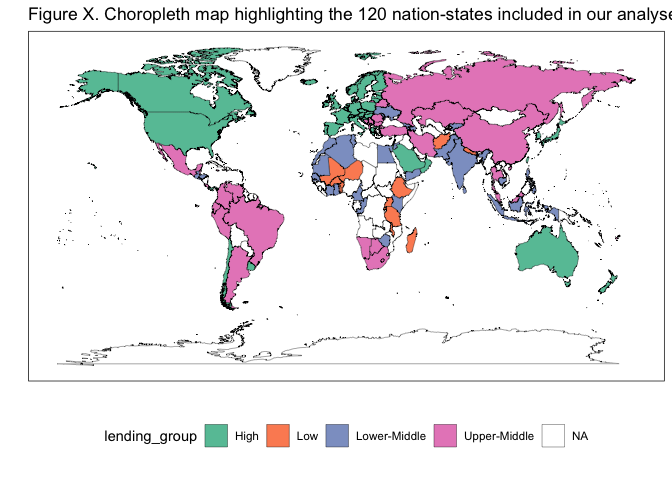
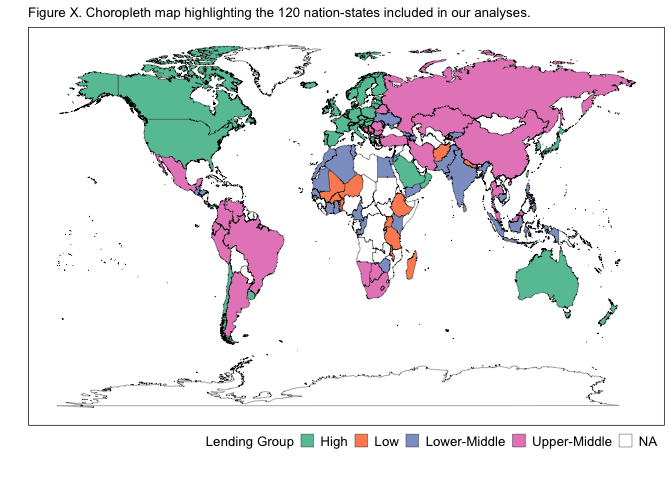
made preliminary visualizations for inclusion, lending- and development-group membership, and lending- and development-group distributions

diff --git a/scripts/analysis-script.md b/scripts/analysis-script.md
@@ -27,6 +27,7 @@ library(viridis)
 library(RColorBrewer)
 library(colorspace)
 library(ggpubr)
+library(ggridges)
 ```
 
 ## Data Loading
@@ -36,7 +37,7 @@ impact_data <- read.csv("/Users/kenjinchang/github/university-impact-model/data/
 spatial_impact_data <- read.csv("/Users/kenjinchang/github/university-impact-model/data/model-output/university-impact-model-shapefile.csv")
 ```
 
-## Nation-State Inclusion Figure
+## Nation-State Inclusion
 
 ``` r
 spatial_impact_data %>%
@@ -48,8 +49,8 @@ spatial_impact_data %>%
   xlab("") + 
   ylab("") +
   labs(caption="") +
-  ggtitle("Figure X. Choropleth map highlighting the 120 nation-states included in our analyses.") +
-  theme(legend.position="none",panel.grid=element_blank(),panel.background=element_rect(fill="white"),panel.border=element_rect(fill=NA),axis.text=element_blank(),axis.ticks=element_blank())
+  ggtitle("Figure X. Choropleth map indicating the 120 nation-states included in our analyses.") +
+  theme(legend.position="bottom",legend.justification="right",legend.box.spacing=unit(-15,"pt"),legend.key.size=unit(10,"pt"),panel.grid=element_blank(),panel.background=element_rect(fill="white"),panel.border=element_rect(fill=NA),axis.text=element_blank(),axis.ticks=element_blank(),legend.title=element_text(size=10),legend.text=element_text(size=10),plot.title=element_text(size=10))
 ```
 
     ## Warning: Using `size` aesthetic for lines was deprecated in ggplot2 3.4.0.
@@ -57,61 +58,225 @@ spatial_impact_data %>%
 
 ![](analysis-script_files/figure-gfm/unnamed-chunk-3-1.png)<!-- -->
 
+## Lending- and Development-Group Membership
+
 ``` r
-spatial_impact_data %>%
-  ggplot(aes(x=long,y=lat,fill=lending_group,group=group)) + 
+impact_data %>%
+  count(lending_group)
+```
+
+    ##   lending_group  n
+    ## 1          High 46
+    ## 2           Low 13
+    ## 3  Lower-Middle 30
+    ## 4  Upper-Middle 31
+
+``` r
+lending_group_membership <- spatial_impact_data %>%
+  ggplot(aes(x=long,y=lat,group=group,fill=factor(lending_group,levels=c("Low","Lower-Middle","Upper-Middle","High","NA")))) + 
   geom_polygon(color="black",size=0.125) +
-  scale_fill_brewer(palette="Set2",na.value="white") +
+  scale_fill_brewer(palette="Set2",na.value="white",name="Lending Group",labels=c("Low (n=13)","Lower Middle (n=30)","Upper Middle (n=31)","High (n=46)","NA")) +
   xlab("") + 
   ylab("") +
   labs(caption="") +
-  ggtitle("Figure X. Choropleth map highlighting the 120 nation-states included in our analyses.") +
-  theme(legend.position="bottom",panel.grid=element_blank(),panel.background=element_rect(fill="white"),panel.border=element_rect(fill=NA),axis.text=element_blank(),axis.ticks=element_blank())
+  theme(legend.position="bottom",legend.justification="right",legend.box.spacing=unit(-15,"pt"),legend.key.size=unit(10,"pt"),panel.grid=element_blank(),panel.background=element_rect(fill="white"),panel.border=element_rect(fill=NA),axis.text=element_blank(),axis.ticks=element_blank(),legend.title=element_text(size=10),legend.text=element_text(size=10),plot.title=element_text(size=10))
 ```
 
-![](analysis-script_files/figure-gfm/unnamed-chunk-4-1.png)<!-- -->
+``` r
+impact_data %>%
+  count(development_group)
+```
+
+    ##   development_group  n
+    ## 1              High 30
+    ## 2               Low 16
+    ## 3            Medium 16
+    ## 4         Very High 58
+
+``` r
+development_group_membership <- spatial_impact_data %>%
+  ggplot(aes(x=long,y=lat,group=group,fill=factor(development_group,levels=c("Low","Medium","High","Very High","NA")))) + 
+  geom_polygon(color="black",size=0.125) +
+  scale_fill_brewer(palette="Set3",na.value="white",name="Development Group",labels=c("Low (n=16)","Medium (n=16)","High (n=30)","Very High (n=58)","NA")) +
+  xlab("") + 
+  ylab("") +
+  labs(caption="") +
+  theme(legend.position="bottom",legend.justification="right",legend.box.spacing=unit(-15,"pt"),legend.key.size=unit(10,"pt"),panel.grid=element_blank(),panel.background=element_rect(fill="white"),panel.border=element_rect(fill=NA),axis.text=element_blank(),axis.ticks=element_blank(),legend.title=element_text(size=10),legend.text=element_text(size=10),plot.title=element_text(size=10))
+```
+
+ggtitle(“Figure X. Choropleth map sorting the 120 nation-states included
+in our analyses into their corresponding lending- and development-group
+categories.”) +
+
+``` r
+ggarrange(lending_group_membership,development_group_membership,
+          nrow=2,
+          labels=c("A","B"))
+```
+
+![](analysis-script_files/figure-gfm/unnamed-chunk-8-1.png)<!-- -->
+
+## Lending- and Development-Group Distributions
+
+``` r
+lending_group_distribution <- impact_data %>%
+  ggplot(aes(baseline_population_kg_co2e,fill=factor(lending_group,levels=c("Low","Lower-Middle","Upper-Middle","High","NA")),color=factor(lending_group,levels=c("Low","Lower-Middle","Upper-Middle","High","NA")))) + 
+  geom_density(alpha=0.75) +
+  scale_color_brewer(palette="Set2",name="Lending Group") +
+  scale_fill_brewer(palette="Set2",name="Lending Group") + 
+  xlim(-1000000000,2500000000) + 
+  theme(legend.position="bottom",legend.justification="right",legend.box.spacing=unit(-15,"pt"),legend.key.size=unit(10,"pt"),panel.grid=element_blank(),panel.background=element_rect(fill="white"),panel.border=element_rect(fill=NA),legend.title=element_text(size=10),legend.text=element_text(size=10),plot.title=element_text(size=10))
+```
+
+``` r
+development_group_distribution <- impact_data %>%
+  ggplot(aes(baseline_population_kg_co2e,fill=factor(development_group,levels=c("Low","Medium","High","Very High","NA")),color=factor(development_group,levels=c("Low","Medium","High","Very High","NA")))) + 
+  geom_density(alpha=0.75) +
+  scale_color_brewer(palette="Set3",name="Development Group") +
+  scale_fill_brewer(palette="Set3",name="Development Group") + 
+  xlim(-390000000,1500000000) +
+  theme(legend.position="bottom",legend.justification="right",legend.box.spacing=unit(-15,"pt"),legend.key.size=unit(10,"pt"),panel.grid=element_blank(),panel.background=element_rect(fill="white"),panel.border=element_rect(fill=NA),legend.title=element_text(size=10),legend.text=element_text(size=10),plot.title=element_text(size=10))
+```
+
+``` r
+ggarrange(lending_group_distribution,development_group_distribution,
+          nrow=2,
+          labels=c("A","B"))
+```
+
+    ## Warning: Removed 23 rows containing non-finite values (`stat_density()`).
+
+    ## Warning: Removed 29 rows containing non-finite values (`stat_density()`).
+
+![](analysis-script_files/figure-gfm/unnamed-chunk-11-1.png)<!-- -->
+
+## Lending- and Development-Group Membership, Dichotomized
+
+``` r
+impact_data %>%
+  count(lending_group_dichotomy)
+```
+
+    ##   lending_group_dichotomy  n
+    ## 1                  Higher 77
+    ## 2                   Lower 43
 
 ``` r
 spatial_impact_data %>%
-  ggplot(aes(x=long,y=lat,fill=lending_group_dichotomy,group=group)) + 
-  geom_polygon(color="black",size=0.125,alpha=0.75) +
-  scale_fill_brewer(palette="Set2",na.value="white") +
+  ggplot(aes(x=long,y=lat,group=group,fill=factor(lending_group_dichotomy,levels=c("Lower","Higher","NA")))) + 
+  geom_polygon(color="black",size=0.125) +
+  scale_fill_brewer(palette="Set2",na.value="white",name="Lending Group",labels=c("Lower (n=43)","Higher (n=77)","NA")) +
   xlab("") + 
   ylab("") +
   labs(caption="") +
   ggtitle("Figure X. Choropleth map highlighting the 120 nation-states included in our analyses.") +
-  theme(legend.position="bottom",panel.grid=element_blank(),panel.background=element_rect(fill="white"),panel.border=element_rect(fill=NA),axis.text=element_blank(),axis.ticks=element_blank())
+  theme(legend.position="bottom",legend.justification="right",legend.box.spacing=unit(-15,"pt"),legend.key.size=unit(10,"pt"),panel.grid=element_blank(),panel.background=element_rect(fill="white"),panel.border=element_rect(fill=NA),axis.text=element_blank(),axis.ticks=element_blank(),legend.title=element_text(size=10),legend.text=element_text(size=10),plot.title=element_text(size=10))
 ```
 
-![](analysis-script_files/figure-gfm/unnamed-chunk-5-1.png)<!-- -->
+![](analysis-script_files/figure-gfm/unnamed-chunk-13-1.png)<!-- -->
+
+``` r
+impact_data %>%
+  count(development_group_dichotomy)
+```
+
+    ##   development_group_dichotomy  n
+    ## 1                Global North 58
+    ## 2                Global South 62
 
 ``` r
 spatial_impact_data %>%
-  ggplot(aes(x=long,y=lat,fill=development_group,group=group)) + 
+  ggplot(aes(x=long,y=lat,group=group,fill=factor(development_group_dichotomy,levels=c("Global South","Global North","NA")))) + 
   geom_polygon(color="black",size=0.125,alpha=0.75) +
-  scale_fill_brewer(palette="Set3",na.value="white") +
+  scale_fill_brewer(palette="Set3",na.value="white",name="Development Group",labels=c("Global South (n=62)","Global North (n=58)","NA")) +
   xlab("") + 
   ylab("") +
   labs(caption="") +
   ggtitle("Figure X. Choropleth map highlighting the 120 nation-states included in our analyses.") +
-  theme(legend.position="bottom",panel.grid=element_blank(),panel.background=element_rect(fill="white"),panel.border=element_rect(fill=NA),axis.text=element_blank(),axis.ticks=element_blank())
+  theme(legend.position="bottom",legend.justification="right",legend.box.spacing=unit(-15,"pt"),legend.key.size=unit(10,"pt"),panel.grid=element_blank(),panel.background=element_rect(fill="white"),panel.border=element_rect(fill=NA),axis.text=element_blank(),axis.ticks=element_blank(),legend.title=element_text(size=10),legend.text=element_text(size=10),plot.title=element_text(size=10))
 ```
 
-![](analysis-script_files/figure-gfm/unnamed-chunk-6-1.png)<!-- -->
+![](analysis-script_files/figure-gfm/unnamed-chunk-15-1.png)<!-- -->
+
+## Groupwise Comparison
 
 ``` r
-spatial_impact_data %>%
-  ggplot(aes(x=long,y=lat,fill=development_group_dichotomy,group=group)) + 
-  geom_polygon(color="black",size=0.125,alpha=0.75) +
-  scale_fill_brewer(palette="Set3",na.value="white") +
-  xlab("") + 
-  ylab("") +
-  labs(caption="") +
-  ggtitle("Figure X. Choropleth map highlighting the 120 nation-states included in our analyses.") +
-  theme(legend.position="bottom",panel.grid=element_blank(),panel.background=element_rect(fill="white"),panel.border=element_rect(fill=NA),axis.text=element_blank(),axis.ticks=element_blank())
+impact_data %>%
+  group_by(lending_group) %>%
+  summarize(mean=mean(baseline_population_kg_co2e),sd=sd(baseline_population_kg_co2e)) 
 ```
 
-![](analysis-script_files/figure-gfm/unnamed-chunk-7-1.png)<!-- -->
+    ## # A tibble: 4 × 3
+    ##   lending_group        mean          sd
+    ##   <chr>               <dbl>       <dbl>
+    ## 1 High          1720526195. 3766983678.
+    ## 2 Low            148666615.  165328434.
+    ## 3 Lower-Middle  1646699500. 5061097874.
+    ## 4 Upper-Middle  3768163828. 8922599752.
+
+``` r
+impact_data %>%
+  group_by(development_group) %>%
+  summarize(mean=mean(baseline_population_kg_co2e),sd=sd(baseline_population_kg_co2e)) 
+```
+
+    ## # A tibble: 4 × 3
+    ##   development_group        mean          sd
+    ##   <chr>                   <dbl>       <dbl>
+    ## 1 High              3473393904. 8990717899.
+    ## 2 Low                264613360.  610595625.
+    ## 3 Medium            1952393522. 6859432419.
+    ## 4 Very High         1855465645. 3624531105.
+
+``` r
+impact_data %>%
+  ggplot(aes(factor(lending_group),baseline_population_kg_co2e)) + 
+  geom_violin(scale="width") + 
+  stat_summary(fun.y=mean, geom="point", shape=21, size=2) +
+  coord_flip()
+```
+
+    ## Warning: The `fun.y` argument of `stat_summary()` is deprecated as of ggplot2 3.3.0.
+    ## ℹ Please use the `fun` argument instead.
+
+![](analysis-script_files/figure-gfm/unnamed-chunk-18-1.png)<!-- -->
+
+``` r
+impact_data %>%
+  ggplot(aes(factor(development_group),baseline_population_kg_co2e)) + 
+  geom_violin(scale="width") + 
+  stat_summary(fun.y=mean, geom="point", shape=21, size=2) +
+  coord_flip()
+```
+
+![](analysis-script_files/figure-gfm/unnamed-chunk-19-1.png)<!-- -->
+
+``` r
+impact_data %>% 
+ggplot(aes(x=baseline_population_kg_co2e,y=development_group,fill=stat(x))) +
+  geom_density_ridges_gradient() +
+  scale_fill_viridis_c(option="C")
+```
+
+    ## Warning: `stat(x)` was deprecated in ggplot2 3.4.0.
+    ## ℹ Please use `after_stat(x)` instead.
+
+    ## Picking joint bandwidth of 3.75e+08
+
+![](analysis-script_files/figure-gfm/unnamed-chunk-20-1.png)<!-- -->
+
+``` r
+impact_data %>% 
+ggplot(aes(x=baseline_population_kg_co2e,y=lending_group,fill=stat(x))) +
+  geom_density_ridges_gradient() +
+  scale_fill_viridis_c(option="C")
+```
+
+    ## Picking joint bandwidth of 3.94e+08
+
+![](analysis-script_files/figure-gfm/unnamed-chunk-21-1.png)<!-- -->
+
+### Average Reduction
 
 ``` r
 ggplot(spatial_impact_data,aes(x=long,y=lat,fill=proportion_school_aged_enrolled,group=group)) + 
@@ -125,7 +290,7 @@ ggplot(spatial_impact_data,aes(x=long,y=lat,fill=proportion_school_aged_enrolled
   theme(legend.position="bottom",panel.grid=element_blank(),panel.background=element_rect(fill="white"),panel.border=element_rect(fill=NA),axis.text=element_blank(),axis.ticks=element_blank(),legend.key.width=unit(3.5,"cm"))
 ```
 
-![](analysis-script_files/figure-gfm/unnamed-chunk-8-1.png)<!-- -->
+![](analysis-script_files/figure-gfm/unnamed-chunk-22-1.png)<!-- -->
 
 scale_fill_gradient(alpha=0.66,name=bquote(‘Kilograms
 CO’\[2\]\*‘e’),colors=“z2”,trans=“reverse”,na.value=“white”,labels=scales::comma,breaks=c(750,1500,2250,3000,3750)) +
@@ -145,7 +310,7 @@ ggplot(spatial_impact_data,aes(x=long,y=lat,fill=eat_lancet_population_percent_r
   theme(legend.position="bottom",panel.grid=element_blank(),panel.background=element_rect(fill="white"),panel.border=element_rect(fill=NA),axis.text=element_blank(),axis.ticks=element_blank(),legend.key.width=unit(3.5,"cm"))
 ```
 
-![](analysis-script_files/figure-gfm/unnamed-chunk-9-1.png)<!-- -->
+![](analysis-script_files/figure-gfm/unnamed-chunk-23-1.png)<!-- -->
 
 ``` r
 ggplot(spatial_impact_data,aes(x=long,y=lat,fill=eat_lancet_population_reduction_kg_co2e
@@ -160,4 +325,4 @@ ggplot(spatial_impact_data,aes(x=long,y=lat,fill=eat_lancet_population_reduction
   theme(legend.position="bottom",panel.grid=element_blank(),panel.background=element_rect(fill="white"),panel.border=element_rect(fill=NA),axis.text=element_blank(),axis.ticks=element_blank(),legend.key.width=unit(3.5,"cm"))
 ```
 
-![](analysis-script_files/figure-gfm/unnamed-chunk-10-1.png)<!-- -->
+![](analysis-script_files/figure-gfm/unnamed-chunk-24-1.png)<!-- -->
